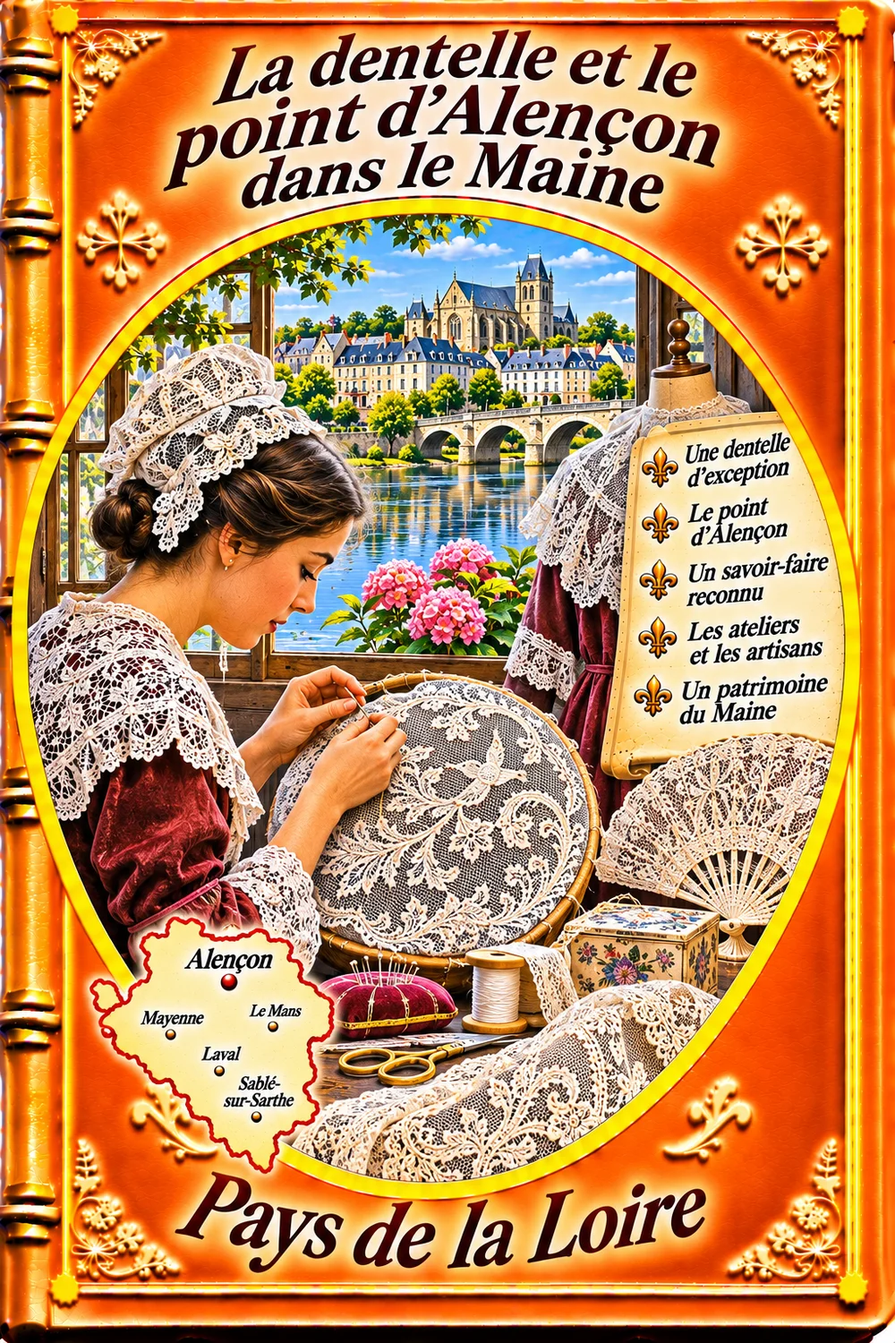
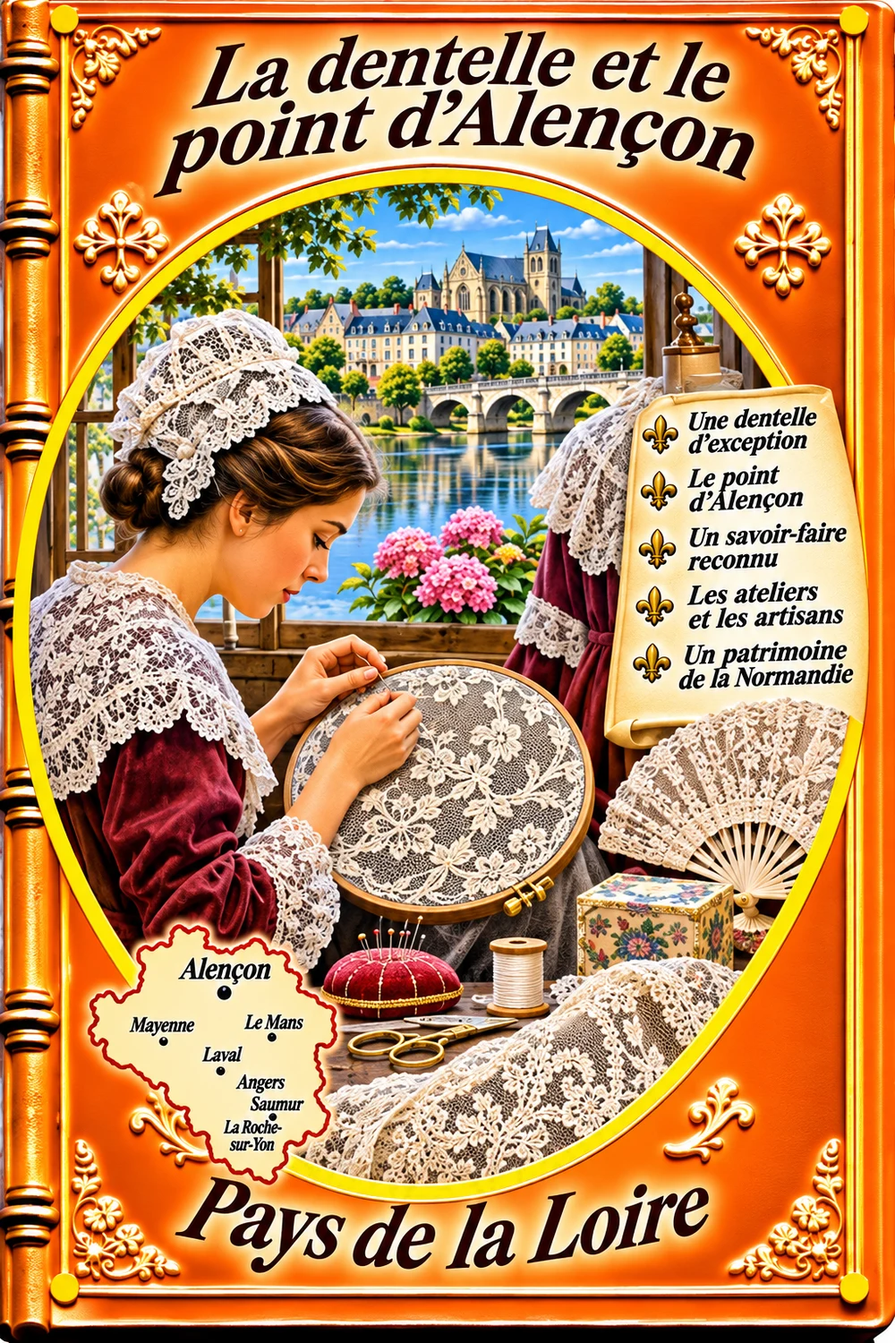
Pays de la Loire : 8 nouvelles couvertures
Claude-Session: https://claude.ai/code/session_01HgJSWxnu3UTd7Eo3ecR1Re

diff --git a/regions/pays-de-la-loire/liste-livres.js b/regions/pays-de-la-loire/liste-livres.js
@@ -13,18 +13,18 @@
    ══════════════════════════════════════════════════════════════ */
 
 AME.ajouterLivres("pays-de-la-loire", [
-  { titre: "Les Pays de la Loire à la loupe", sousTitre: "La région en chiffres, en cartes et en images", page: "pays-de-la-loire-info.html", couverture: "images/couvertures/pays-de-la-loire-info.webp", couleur: "#B5520C" },
+  { titre: "Les Pays de la Loire à la loupe", sousTitre: "La région en chiffres, en cartes et en images", page: "pays-de-la-loire-info.html", couverture: "images/couvertures/pays-de-la-loire-info.webp?v=20261118", couleur: "#B5520C" },
   { titre: "Recettes salées & sucrées", sousTitre: "60 recettes des Pays de la Loire, avec leurs boissons", page: "recettes-pays-de-la-loire.html", couverture: "images/couvertures/recettes-pays-de-la-loire.webp", couleur: "#B5520C" },
-  { titre: "Les Gaulois et les Romains", sousTitre: "Namnètes, Andécaves, Cénomans et la muraille du Mans", page: "gaulois-romains.html", couverture: "images/couvertures/gaulois-romains.webp", couleur: "#B5520C" },
+  { titre: "Les Gaulois et les Romains", sousTitre: "Namnètes, Andécaves, Cénomans et la muraille du Mans", page: "gaulois-romains.html", couverture: "images/couvertures/gaulois-romains.webp?v=20261118", couleur: "#B5520C" },
   { titre: "Les Plantagenêts et l'empire angevin", sousTitre: "Henri II, Aliénor et Richard Cœur de Lion", page: "plantagenets.html", couverture: "images/couvertures/plantagenets.webp", couleur: "#B5520C" },
   { titre: "L'abbaye de Fontevraud", sousTitre: "Et les grandes abbayes : Solesmes, l'Épau, Maillezais…", page: "abbayes.html", couverture: "images/couvertures/abbayes.webp", couleur: "#B5520C" },
-  { titre: "Le château d'Angers", sousTitre: "Et la tapisserie de l'Apocalypse", page: "chateau-angers.html", couverture: "images/couvertures/chateau-angers.webp", couleur: "#B5520C" },
-  { titre: "Les ducs de Bretagne et le château de Nantes", sousTitre: "François II, Anne de Bretagne et l'union de 1532", page: "ducs-bretagne-nantes.html", couverture: "images/couvertures/ducs-bretagne-nantes.webp", couleur: "#B5520C" },
-  { titre: "Les châteaux de la Loire", sousTitre: "La Renaissance angevine et le roi René", page: "chateaux-loire.html", couverture: "images/couvertures/chateaux-loire.webp", couleur: "#B5520C" },
+  { titre: "Le château d'Angers", sousTitre: "Et la tapisserie de l'Apocalypse", page: "chateau-angers.html", couverture: "images/couvertures/chateau-angers.webp?v=20261118", couleur: "#B5520C" },
+  { titre: "Les ducs de Bretagne et le château de Nantes", sousTitre: "François II, Anne de Bretagne et l'union de 1532", page: "ducs-bretagne-nantes.html", couverture: "images/couvertures/ducs-bretagne-nantes.webp?v=20261118", couleur: "#B5520C" },
+  { titre: "Les châteaux de la Loire", sousTitre: "La Renaissance angevine et le roi René", page: "chateaux-loire.html", couverture: "images/couvertures/chateaux-loire.webp?v=20261118", couleur: "#B5520C" },
   { titre: "L'édit de Nantes", sousTitre: "1598 : Henri IV et la paix des religions", page: "edit-nantes.html", couverture: "images/couvertures/edit-nantes.webp", couleur: "#B5520C" },
   { titre: "Les guerres de Vendée", sousTitre: "1793-1796 : insurrection, Virée de Galerne et répression", page: "guerres-vendee.html", couverture: "images/couvertures/guerres-vendee.webp", couleur: "#B5520C" },
-  { titre: "La Chouannerie dans le Maine et l'Anjou", sousTitre: "Jean Chouan et la guérilla du bocage", page: "chouannerie-maine.html", couverture: "images/couvertures/chouannerie-maine.webp", couleur: "#B5520C" },
-  { titre: "Nantes, port colonial et de la traite négrière", sousTitre: "Le commerce triangulaire et le devoir de mémoire", page: "nantes-port-traite.html", couverture: "images/couvertures/nantes-port-traite.webp", couleur: "#B5520C" },
+  { titre: "La Chouannerie dans le Maine et l'Anjou", sousTitre: "Jean Chouan et la guérilla du bocage", page: "chouannerie-maine.html", couverture: "images/couvertures/chouannerie-maine.webp?v=20261118", couleur: "#B5520C" },
+  { titre: "Nantes, port colonial et de la traite négrière", sousTitre: "Le commerce triangulaire et le devoir de mémoire", page: "nantes-port-traite.html", couverture: "images/couvertures/nantes-port-traite.webp?v=20261118", couleur: "#B5520C" },
   { titre: "La Loire, fleuve de commerce", sousTitre: "Gabares, mariniers, crues et levées", page: "loire-fleuve.html", couverture: "images/couvertures/loire-fleuve.webp", couleur: "#B5520C" },
   { titre: "Les marais salants de Guérande", sousTitre: "Le sel, la fleur de sel et les paludiers", page: "marais-salants.html", couverture: "images/couvertures/marais-salants.webp", couleur: "#B5520C" },
   { titre: "Le vignoble nantais et les vins d'Anjou-Saumur", sousTitre: "Muscadet, Layon, Saumur-Champigny…", page: "vignoble.html", couverture: "images/couvertures/vignoble.webp", couleur: "#B5520C" },
@@ -33,7 +33,7 @@ AME.ajouterLivres("pays-de-la-loire", [
   { titre: "Les traditions du bocage vendéen", sousTitre: "Haies, moulins, veillées et fêtes paysannes", page: "bocage-vendeen.html", couverture: "images/couvertures/bocage-vendeen.webp", couleur: "#B5520C" },
   { titre: "Le maraîchage nantais et l'horticulture angevine", sousTitre: "La mâche, le muguet et les pépinières d'Angers", page: "maraichage.html", couverture: "images/couvertures/maraichage.webp", couleur: "#B5520C" },
   { titre: "Les faïences de Malicorne", sousTitre: "Un savoir-faire sarthois depuis 1747", page: "faience-malicorne.html", couverture: "images/couvertures/faience-malicorne.webp", couleur: "#B5520C" },
-  { titre: "La dentelle et le point d'Alençon", sousTitre: "La « reine des dentelles », aux portes du Maine", page: "dentelle.html", couverture: "images/couvertures/dentelle.webp", couleur: "#B5520C" },
+  { titre: "La dentelle et le point d'Alençon", sousTitre: "La « reine des dentelles », aux portes du Maine", page: "dentelle.html", couverture: "images/couvertures/dentelle.webp?v=20261118", couleur: "#B5520C" },
   { titre: "Les chantiers navals de Saint-Nazaire", sousTitre: "Du Normandie aux géants de la croisière", page: "chantiers-navals.html", couverture: "images/couvertures/chantiers-navals.webp", couleur: "#B5520C" },
   { titre: "La Seconde Guerre mondiale", sousTitre: "Les otages, Nantes bombardée et la poche de Saint-Nazaire", page: "seconde-guerre.html", couverture: "images/couvertures/seconde-guerre.webp", couleur: "#B5520C" },
   { titre: "Les grandes figures littéraires et artistiques", sousTitre: "Du Bellay, Clemenceau, Gracq, le Douanier Rousseau, Demy…", page: "grandes-figures.html", couverture: "images/couvertures/grandes-figures.webp", couleur: "#B5520C" },

diff --git a/france.html b/france.html
@@ -4,7 +4,7 @@
   <meta charset="UTF-8" />
   <meta name="viewport" content="width=device-width, initial-scale=1.0" />
   <title>Carte de France — Bibliothèque des régions</title>
-  <link rel="stylesheet" href="commun/site.css?v=20261118b" />
+  <link rel="stylesheet" href="commun/site.css?v=20261118c" />
   <link rel="preconnect" href="https://fonts.googleapis.com" />
   <link href="https://fonts.googleapis.com/css2?family=Playfair+Display:ital,wght@0,400;0,700;1,400&family=Source+Sans+3:wght@400;500;600&display=swap" rel="stylesheet" />
 </head>
@@ -79,36 +79,36 @@
   <p class="accueil-collection-texte">Les recettes des treize régions de métropole, réunies en deux tomes.</p>
   <div class="accueil-collection-livres">
     <a class="accueil-tome" href="collections/france/recettes-salees-france.html" style="--cuir:#8B1E24">
-      <img src="collections/france/images/recettes-salees-france.webp?v=20261118b" alt="" loading="lazy" />
+      <img src="collections/france/images/recettes-salees-france.webp?v=20261118c" alt="" loading="lazy" />
       <span class="accueil-tome-titre">Recettes salées de France<small>Tome 1 · 386 recettes</small></span>
     </a>
     <a class="accueil-tome" href="collections/france/recettes-sucrees-france.html" style="--cuir:#8B1E24">
-      <img src="collections/france/images/recettes-sucrees-france.webp?v=20261118b" alt="" loading="lazy" />
+      <img src="collections/france/images/recettes-sucrees-france.webp?v=20261118c" alt="" loading="lazy" />
       <span class="accueil-tome-titre">Recettes sucrées de France<small>Tome 2 · 384 recettes</small></span>
     </a>
   </div>
 </section>
 
-<script src="commun/regions.js?v=20261118b"></script>
+<script src="commun/regions.js?v=20261118c"></script>
 <!-- La liste des livres de chaque région (pour compter les livres sur la carte) -->
-<script src="regions/auvergne-rhone-alpes/liste-livres.js?v=20261118b"></script>
-<script src="regions/bourgogne-franche-comte/liste-livres.js?v=20261118b"></script>
-<script src="regions/bretagne/liste-livres.js?v=20261118b"></script>
-<script src="regions/centre-val-de-loire/liste-livres.js?v=20261118b"></script>
-<script src="regions/corse/liste-livres.js?v=20261118b"></script>
-<script src="regions/grand-est/liste-livres.js?v=20261118b"></script>
-<script src="regions/hauts-de-france/liste-livres.js?v=20261118b"></script>
-<script src="regions/ile-de-france/liste-livres.js?v=20261118b"></script>
-<script src="regions/normandie/liste-livres.js?v=20261118b"></script>
-<script src="regions/nouvelle-aquitaine/liste-livres.js?v=20261118b"></script>
-<script src="regions/occitanie/liste-livres.js?v=20261118b"></script>
-<script src="regions/pays-de-la-loire/liste-livres.js?v=20261118b"></script>
-<script src="regions/provence-alpes-cote-d-azur/liste-livres.js?v=20261118b"></script>
-<script src="regions/guadeloupe/liste-livres.js?v=20261118b"></script>
-<script src="regions/martinique/liste-livres.js?v=20261118b"></script>
-<script src="regions/guyane/liste-livres.js?v=20261118b"></script>
-<script src="regions/la-reunion/liste-livres.js?v=20261118b"></script>
-<script src="regions/mayotte/liste-livres.js?v=20261118b"></script>
+<script src="regions/auvergne-rhone-alpes/liste-livres.js?v=20261118c"></script>
+<script src="regions/bourgogne-franche-comte/liste-livres.js?v=20261118c"></script>
+<script src="regions/bretagne/liste-livres.js?v=20261118c"></script>
+<script src="regions/centre-val-de-loire/liste-livres.js?v=20261118c"></script>
+<script src="regions/corse/liste-livres.js?v=20261118c"></script>
+<script src="regions/grand-est/liste-livres.js?v=20261118c"></script>
+<script src="regions/hauts-de-france/liste-livres.js?v=20261118c"></script>
+<script src="regions/ile-de-france/liste-livres.js?v=20261118c"></script>
+<script src="regions/normandie/liste-livres.js?v=20261118c"></script>
+<script src="regions/nouvelle-aquitaine/liste-livres.js?v=20261118c"></script>
+<script src="regions/occitanie/liste-livres.js?v=20261118c"></script>
+<script src="regions/pays-de-la-loire/liste-livres.js?v=20261118c"></script>
+<script src="regions/provence-alpes-cote-d-azur/liste-livres.js?v=20261118c"></script>
+<script src="regions/guadeloupe/liste-livres.js?v=20261118c"></script>
+<script src="regions/martinique/liste-livres.js?v=20261118c"></script>
+<script src="regions/guyane/liste-livres.js?v=20261118c"></script>
+<script src="regions/la-reunion/liste-livres.js?v=20261118c"></script>
+<script src="regions/mayotte/liste-livres.js?v=20261118c"></script>
 <script src="commun/carte.js"></script>
 </body>
 </html>

diff --git a/regions/pays-de-la-loire/nantes-port-traite.html b/regions/pays-de-la-loire/nantes-port-traite.html
@@ -9,7 +9,7 @@
   <link href="https://fonts.googleapis.com/css2?family=Playfair+Display:ital,wght@0,400;0,700;1,400&family=Source+Sans+3:wght@400;500;600&display=swap" rel="stylesheet" />
 </head>
 <!-- Couverture du livre (image rangée dans images/couvertures/), couleur du cuir et retour à la bibliothèque -->
-<body data-livre-cuir="#B5520C" class="produit-page" data-livre-couverture="images/couvertures/nantes-port-traite.webp" data-livre-retour="bibliotheque.html">
+<body data-livre-cuir="#B5520C" class="produit-page" data-livre-couverture="images/couvertures/nantes-port-traite.webp?v=20261118" data-livre-retour="bibliotheque.html">
 <div class="produit-body"><div class="container"><div class="produit-layout"><div>
 <!-- ═════════ UNE RICHESSE BÂTIE SUR L'ESCLAVAGE ═════════ -->
 <section class="section" id="presentation"><h2 class="section-titre"><div class="section-titre-icon">⚓</div>Une richesse bâtie sur l'esclavage</h2><div class="histoire-texte"><p><strong>Au XVIII<sup>e</sup> siècle, Nantes est l'un des plus grands ports de France. Une grande partie de sa richesse vient du commerce avec les colonies des Antilles et de la <em>traite négrière</em> : l'achat, le transport et la vente d'êtres humains réduits en esclavage.</strong></p><p>Nantes a été le premier port négrier de France : environ 1 800 expéditions, qui ont déporté plus de 550 000 Africains vers les Amériques.</p><p>Pendant longtemps, la ville a préféré oublier cette histoire. Depuis les années 1990, elle la regarde en face, avec des expositions, un musée et le Mémorial de l'abolition de l'esclavage, inauguré en 2012.</p><div class="repere-grid"><div class="repere"><strong>≈ 1 800</strong><span>expéditions négrières nantaises.</span></div><div class="repere"><strong>> 550 000</strong><span>Africains déportés par des navires nantais.</span></div><div class="repere"><strong>≈ 40 %</strong><span>de la traite française.</span></div><div class="repere"><strong>1848</strong><span>abolition définitive de l'esclavage.</span></div></div></div></section>

diff --git a/regions/pays-de-la-loire/pays-de-la-loire-info.html b/regions/pays-de-la-loire/pays-de-la-loire-info.html
@@ -9,7 +9,7 @@
   <link href="https://fonts.googleapis.com/css2?family=Playfair+Display:ital,wght@0,400;0,700;1,400&family=Source+Sans+3:wght@400;500;600&display=swap" rel="stylesheet" />
 </head>
 <!-- Couverture du livre (image rangée dans images/couvertures/), couleur du cuir et retour à la bibliothèque -->
-<body data-livre-cuir="#B5520C" class="produit-page" data-livre-couverture="images/couvertures/pays-de-la-loire-info.webp" data-livre-retour="bibliotheque.html">
+<body data-livre-cuir="#B5520C" class="produit-page" data-livre-couverture="images/couvertures/pays-de-la-loire-info.webp?v=20261118" data-livre-retour="bibliotheque.html">
 <div class="produit-body"><div class="container"><div class="produit-layout"><div>
 <!-- ═════════ UNE RÉGION NÉE AUTOUR DU FLEUVE ═════════ -->
 <section class="section" id="presentation"><h2 class="section-titre"><div class="section-titre-icon">📖</div>Une région née autour du fleuve</h2><div class="histoire-texte"><p><strong>Les Pays de la Loire sont une région de l'ouest de la France, traversée d'est en ouest par la Loire, le plus long fleuve de France, jusqu'à son estuaire à Saint-Nazaire.</strong></p><p>La région a été créée au milieu du XX<sup>e</sup> siècle en réunissant des territoires d'histoire différente : une partie de la Bretagne historique (Nantes et la Loire-Atlantique), l'Anjou, le Maine (Sarthe et Mayenne) et le Bas-Poitou (Vendée). Son nom, au pluriel, rappelle ces « pays » rassemblés autour du fleuve.</p><p>Avec 3,9 millions d'habitants, c'est une région jeune et dynamique, où la population augmente vite. Ce livre présente les Pays de la Loire d'aujourd'hui.</p><div class="repere-grid"><div class="repere"><strong>32 082 km²</strong><span>de superficie.</span></div><div class="repere"><strong>3,9 millions</strong><span>d'habitants au 1<sup>er</sup> janvier 2023.</span></div><div class="repere"><strong>5</strong><span>départements.</span></div><div class="repere"><strong>≈ 450 km</strong><span>de côtes, îles comprises.</span></div></div></div></section>

diff --git a/regions/pays-de-la-loire/gaulois-romains.html b/regions/pays-de-la-loire/gaulois-romains.html
@@ -9,7 +9,7 @@
   <link href="https://fonts.googleapis.com/css2?family=Playfair+Display:ital,wght@0,400;0,700;1,400&family=Source+Sans+3:wght@400;500;600&display=swap" rel="stylesheet" />
 </head>
 <!-- Couverture du livre (image rangée dans images/couvertures/), couleur du cuir et retour à la bibliothèque -->
-<body data-livre-cuir="#B5520C" class="produit-page" data-livre-couverture="images/couvertures/gaulois-romains.webp" data-livre-retour="bibliotheque.html">
+<body data-livre-cuir="#B5520C" class="produit-page" data-livre-couverture="images/couvertures/gaulois-romains.webp?v=20261118" data-livre-retour="bibliotheque.html">
 <div class="produit-body"><div class="container"><div class="produit-layout"><div>
 <!-- ═════════ AUX ORIGINES DE LA RÉGION ═════════ -->
 <section class="section" id="presentation"><h2 class="section-titre"><div class="section-titre-icon">🛡</div>Aux origines de la région</h2><div class="histoire-texte"><p><strong>Bien avant les Pays de la Loire, il y avait des peuples gaulois. Chacun avait son territoire, ses chefs, ses dieux et sa monnaie.</strong></p><p>Les Namnètes vivaient autour de l'estuaire de la Loire, les Andécaves en Anjou, les Cénomans et les Diablintes dans le Maine, les Pictons au sud de la Loire, en Vendée.</p><p>Au I<sup>er</sup> siècle avant J.-C., Jules César conquiert la Gaule. Pendant près de cinq siècles, la région devient romaine : on y construit des villes, des routes, des thermes et des temples. Beaucoup de nos villes et de nos routes datent de cette époque.</p><div class="repere-grid"><div class="repere"><strong>5</strong><span>grands peuples gaulois dans la région.</span></div><div class="repere"><strong>58-51 av. J.-C.</strong><span>la guerre des Gaules.</span></div><div class="repere"><strong>≈ 1 300 m</strong><span>de muraille romaine au Mans.</span></div><div class="repere"><strong>476</strong><span>fin de l'Empire romain d'Occident.</span></div></div></div></section>

diff --git a/regions/pays-de-la-loire/ducs-bretagne-nantes.html b/regions/pays-de-la-loire/ducs-bretagne-nantes.html
@@ -9,7 +9,7 @@
   <link href="https://fonts.googleapis.com/css2?family=Playfair+Display:ital,wght@0,400;0,700;1,400&family=Source+Sans+3:wght@400;500;600&display=swap" rel="stylesheet" />
 </head>
 <!-- Couverture du livre (image rangée dans images/couvertures/), couleur du cuir et retour à la bibliothèque -->
-<body data-livre-cuir="#B5520C" class="produit-page" data-livre-couverture="images/couvertures/ducs-bretagne-nantes.webp" data-livre-retour="bibliotheque.html">
+<body data-livre-cuir="#B5520C" class="produit-page" data-livre-couverture="images/couvertures/ducs-bretagne-nantes.webp?v=20261118" data-livre-retour="bibliotheque.html">
 <div class="produit-body"><div class="container"><div class="produit-layout"><div>
 <!-- ═════════ NANTES, VILLE DES DUCS ═════════ -->
 <section class="section" id="presentation"><h2 class="section-titre"><div class="section-titre-icon">🏰</div>Nantes, ville des ducs</h2><div class="histoire-texte"><p><strong>Pendant des siècles, Nantes a été l'une des grandes villes du duché de Bretagne, un État presque indépendant, voisin du royaume de France.</strong></p><p>Au XV<sup>e</sup> siècle, les ducs de la famille de Montfort y résident souvent. Le dernier d'entre eux, François II, fait reconstruire le château à partir de 1466. Sa fille, <strong>Anne de Bretagne</strong>, y naît en 1477.</p><p>Après les mariages d'Anne avec deux rois de France, la Bretagne est unie à la France en 1532. Le château des ducs, au cœur de Nantes, rappelle cette histoire.</p><div class="repere-grid"><div class="repere"><strong>1466</strong><span>début de la reconstruction du château.</span></div><div class="repere"><strong>1477</strong><span>naissance d'Anne de Bretagne à Nantes.</span></div><div class="repere"><strong>1532</strong><span>union de la Bretagne à la France.</span></div><div class="repere"><strong>2007</strong><span>ouverture du musée d'histoire de Nantes.</span></div></div></div></section>

diff --git a/regions/pays-de-la-loire/chateau-angers.html b/regions/pays-de-la-loire/chateau-angers.html
@@ -9,7 +9,7 @@
   <link href="https://fonts.googleapis.com/css2?family=Playfair+Display:ital,wght@0,400;0,700;1,400&family=Source+Sans+3:wght@400;500;600&display=swap" rel="stylesheet" />
 </head>
 <!-- Couverture du livre (image rangée dans images/couvertures/), couleur du cuir et retour à la bibliothèque -->
-<body data-livre-cuir="#B5520C" class="produit-page" data-livre-couverture="images/couvertures/chateau-angers.webp" data-livre-retour="bibliotheque.html">
+<body data-livre-cuir="#B5520C" class="produit-page" data-livre-couverture="images/couvertures/chateau-angers.webp?v=20261118" data-livre-retour="bibliotheque.html">
 <div class="produit-body"><div class="container"><div class="produit-layout"><div>
 <!-- ═════════ UNE FORTERESSE ET UN CHEF-D'ŒUVRE ═════════ -->
 <section class="section" id="presentation"><h2 class="section-titre"><div class="section-titre-icon">🏰</div>Une forteresse et un chef-d'œuvre</h2><div class="histoire-texte"><p><strong>Au cœur d'Angers, au-dessus de la Maine, se dresse un immense château fort aux murailles rayées de noir et de blanc.</strong></p><p>Il a été construit au XIII<sup>e</sup> siècle par le roi de France pour surveiller l'Anjou, qu'il venait de reprendre aux Plantagenêts. Ses 17 grosses tours en font l'une des forteresses les plus impressionnantes de France.</p><p>À l'intérieur, une galerie moderne abrite un trésor unique : la <strong>tapisserie de l'Apocalypse</strong>, tissée à la fin du XIV<sup>e</sup> siècle. C'est la plus grande tapisserie médiévale conservée au monde.</p><div class="repere-grid"><div class="repere"><strong>17</strong><span>tours.</span></div><div class="repere"><strong>≈ 800 m</strong><span>de remparts.</span></div><div class="repere"><strong>103 m</strong><span>de tapisserie conservée.</span></div><div class="repere"><strong>vers 1375</strong><span>commande de la tapisserie.</span></div></div></div></section>

diff --git a/regions/pays-de-la-loire/dentelle.html b/regions/pays-de-la-loire/dentelle.html
@@ -9,7 +9,7 @@
   <link href="https://fonts.googleapis.com/css2?family=Playfair+Display:ital,wght@0,400;0,700;1,400&family=Source+Sans+3:wght@400;500;600&display=swap" rel="stylesheet" />
 </head>
 <!-- Couverture du livre (image rangée dans images/couvertures/), couleur du cuir et retour à la bibliothèque -->
-<body data-livre-cuir="#B5520C" class="produit-page" data-livre-couverture="images/couvertures/dentelle.webp" data-livre-retour="bibliotheque.html">
+<body data-livre-cuir="#B5520C" class="produit-page" data-livre-couverture="images/couvertures/dentelle.webp?v=20261118" data-livre-retour="bibliotheque.html">
 <div class="produit-body"><div class="container"><div class="produit-layout"><div>
 <!-- ═════════ LA REINE DES DENTELLES ═════════ -->
 <section class="section" id="presentation"><h2 class="section-titre"><div class="section-titre-icon">🪡</div>La reine des dentelles</h2><div class="histoire-texte"><p><strong>Le point d'Alençon est l'une des dentelles les plus fines et les plus célèbres du monde. On l'appelle la « reine des dentelles ».</strong></p><p>Elle est faite entièrement à l'aiguille, avec un fil très fin, point par point. Il faut des années d'apprentissage et des dizaines d'heures pour quelques centimètres carrés.</p><p>Ce savoir-faire est né au XVII<sup>e</sup> siècle à Alençon, une ville de Normandie située juste à la frontière du Maine. Depuis 2010, il est inscrit au patrimoine culturel immatériel de l'humanité par l'UNESCO.</p><div class="repere-grid"><div class="repere"><strong>1665</strong><span>Colbert crée les manufactures de « points de France ».</span></div><div class="repere"><strong>10</strong><span>étapes de fabrication.</span></div><div class="repere"><strong>1976</strong><span>Atelier national du point d'Alençon.</span></div><div class="repere"><strong>2010</strong><span>inscription à l'UNESCO.</span></div></div></div></section>

diff --git a/regions/pays-de-la-loire/chouannerie-maine.html b/regions/pays-de-la-loire/chouannerie-maine.html
@@ -9,7 +9,7 @@
   <link href="https://fonts.googleapis.com/css2?family=Playfair+Display:ital,wght@0,400;0,700;1,400&family=Source+Sans+3:wght@400;500;600&display=swap" rel="stylesheet" />
 </head>
 <!-- Couverture du livre (image rangée dans images/couvertures/), couleur du cuir et retour à la bibliothèque -->
-<body data-livre-cuir="#B5520C" class="produit-page" data-livre-couverture="images/couvertures/chouannerie-maine.webp" data-livre-retour="bibliotheque.html">
+<body data-livre-cuir="#B5520C" class="produit-page" data-livre-couverture="images/couvertures/chouannerie-maine.webp?v=20261118" data-livre-retour="bibliotheque.html">
 <div class="produit-body"><div class="container"><div class="produit-layout"><div>
 <!-- ═════════ UNE GUERRE DE L'OMBRE ═════════ -->
 <section class="section" id="presentation"><h2 class="section-titre"><div class="section-titre-icon">🌳</div>Une guerre de l'ombre</h2><div class="histoire-texte"><p><strong>Entre 1793 et 1800, au nord de la Loire, des paysans royalistes se battent contre la République. On les appelle les « chouans ».</strong></p><p>Contrairement aux Vendéens, ils ne forment pas de grandes armées. Ils mènent une <strong>guérilla</strong> : de petits groupes qui connaissent bien le pays, se cachent dans les bois et les haies du bocage, attaquent par surprise puis disparaissent.</p><p>Le Maine, surtout la Mayenne, et le nord de l'Anjou sont des terres de chouannerie, comme une grande partie de la Bretagne et le sud de la Normandie.</p><div class="repere-grid"><div class="repere"><strong>1793-1800</strong><span>la Chouannerie.</span></div><div class="repere"><strong>1757-1794</strong><span>vie de Jean Chouan.</span></div><div class="repere"><strong>octobre 1799</strong><span>les chouans prennent Le Mans.</span></div><div class="repere"><strong>1800</strong><span>pacification par Bonaparte.</span></div></div></div></section>

diff --git a/regions/pays-de-la-loire/chateaux-loire.html b/regions/pays-de-la-loire/chateaux-loire.html
@@ -9,7 +9,7 @@
   <link href="https://fonts.googleapis.com/css2?family=Playfair+Display:ital,wght@0,400;0,700;1,400&family=Source+Sans+3:wght@400;500;600&display=swap" rel="stylesheet" />
 </head>
 <!-- Couverture du livre (image rangée dans images/couvertures/), couleur du cuir et retour à la bibliothèque -->
-<body data-livre-cuir="#B5520C" class="produit-page" data-livre-couverture="images/couvertures/chateaux-loire.webp" data-livre-retour="bibliotheque.html">
+<body data-livre-cuir="#B5520C" class="produit-page" data-livre-couverture="images/couvertures/chateaux-loire.webp?v=20261118" data-livre-retour="bibliotheque.html">
 <div class="produit-body"><div class="container"><div class="produit-layout"><div>
 <!-- ═════════ L'ANJOU, PAYS DE CHÂTEAUX ═════════ -->
 <section class="section" id="presentation"><h2 class="section-titre"><div class="section-titre-icon">🏰</div>L'Anjou, pays de châteaux</h2><div class="histoire-texte"><p><strong>On pense souvent que les châteaux de la Loire sont en Touraine, autour de Chambord, Chenonceau ou Amboise. Mais l'Anjou, en aval, en possède aussi de magnifiques.</strong></p><p>Angers, Saumur, Montsoreau, Brissac, Serrant, le Plessis-Bourré… Ces châteaux racontent le passage du château fort du Moyen Âge au château de plaisance de la Renaissance.</p><p>Ce livre présente les princes qui les ont fait construire, comme le célèbre <strong>roi René</strong>, et la pierre blanche de la Loire, le tuffeau.</p><div class="repere-grid"><div class="repere"><strong>1409-1480</strong><span>vie du roi René.</span></div><div class="repere"><strong>1453</strong><span>fin de la guerre de Cent Ans.</span></div><div class="repere"><strong>1494</strong><span>début des guerres d'Italie.</span></div><div class="repere"><strong>2000</strong><span>Val de Loire au patrimoine mondial.</span></div></div></div></section>

diff --git a/regions/provence-alpes-cote-d-azur/bibliotheque.html b/regions/provence-alpes-cote-d-azur/bibliotheque.html
@@ -4,7 +4,7 @@
   <meta charset="UTF-8" />
   <meta name="viewport" content="width=device-width, initial-scale=1.0" />
   <title>Bibliothèque — Provence-Alpes-Côte d&#x27;Azur</title>
-  <link rel="stylesheet" href="../../commun/site.css?v=20261118b" />
+  <link rel="stylesheet" href="../../commun/site.css?v=20261118c" />
   <link rel="preconnect" href="https://fonts.googleapis.com" />
   <link href="https://fonts.googleapis.com/css2?family=Playfair+Display:ital,wght@0,400;0,700;1,400&family=Source+Sans+3:wght@400;500;600&display=swap" rel="stylesheet" />
 </head>
@@ -28,8 +28,8 @@
   <div class="biblio-meuble"></div>
 </main>
 
-<script src="../../commun/regions.js?v=20261118b"></script>
-<script src="liste-livres.js?v=20261118b"></script>
-<script src="../../commun/bibliotheque.js?v=20261118b"></script>
+<script src="../../commun/regions.js?v=20261118c"></script>
+<script src="liste-livres.js?v=20261118c"></script>
+<script src="../../commun/bibliotheque.js?v=20261118c"></script>
 </body>
 </html>

diff --git a/regions/bourgogne-franche-comte/bibliotheque.html b/regions/bourgogne-franche-comte/bibliotheque.html
@@ -4,7 +4,7 @@
   <meta charset="UTF-8" />
   <meta name="viewport" content="width=device-width, initial-scale=1.0" />
   <title>Bibliothèque — Bourgogne-Franche-Comté</title>
-  <link rel="stylesheet" href="../../commun/site.css?v=20261118b" />
+  <link rel="stylesheet" href="../../commun/site.css?v=20261118c" />
   <link rel="preconnect" href="https://fonts.googleapis.com" />
   <link href="https://fonts.googleapis.com/css2?family=Playfair+Display:ital,wght@0,400;0,700;1,400&family=Source+Sans+3:wght@400;500;600&display=swap" rel="stylesheet" />
 </head>
@@ -28,8 +28,8 @@
   <div class="biblio-meuble"></div>
 </main>
 
-<script src="../../commun/regions.js?v=20261118b"></script>
-<script src="liste-livres.js?v=20261118b"></script>
-<script src="../../commun/bibliotheque.js?v=20261118b"></script>
+<script src="../../commun/regions.js?v=20261118c"></script>
+<script src="liste-livres.js?v=20261118c"></script>
+<script src="../../commun/bibliotheque.js?v=20261118c"></script>
 </body>
 </html>
